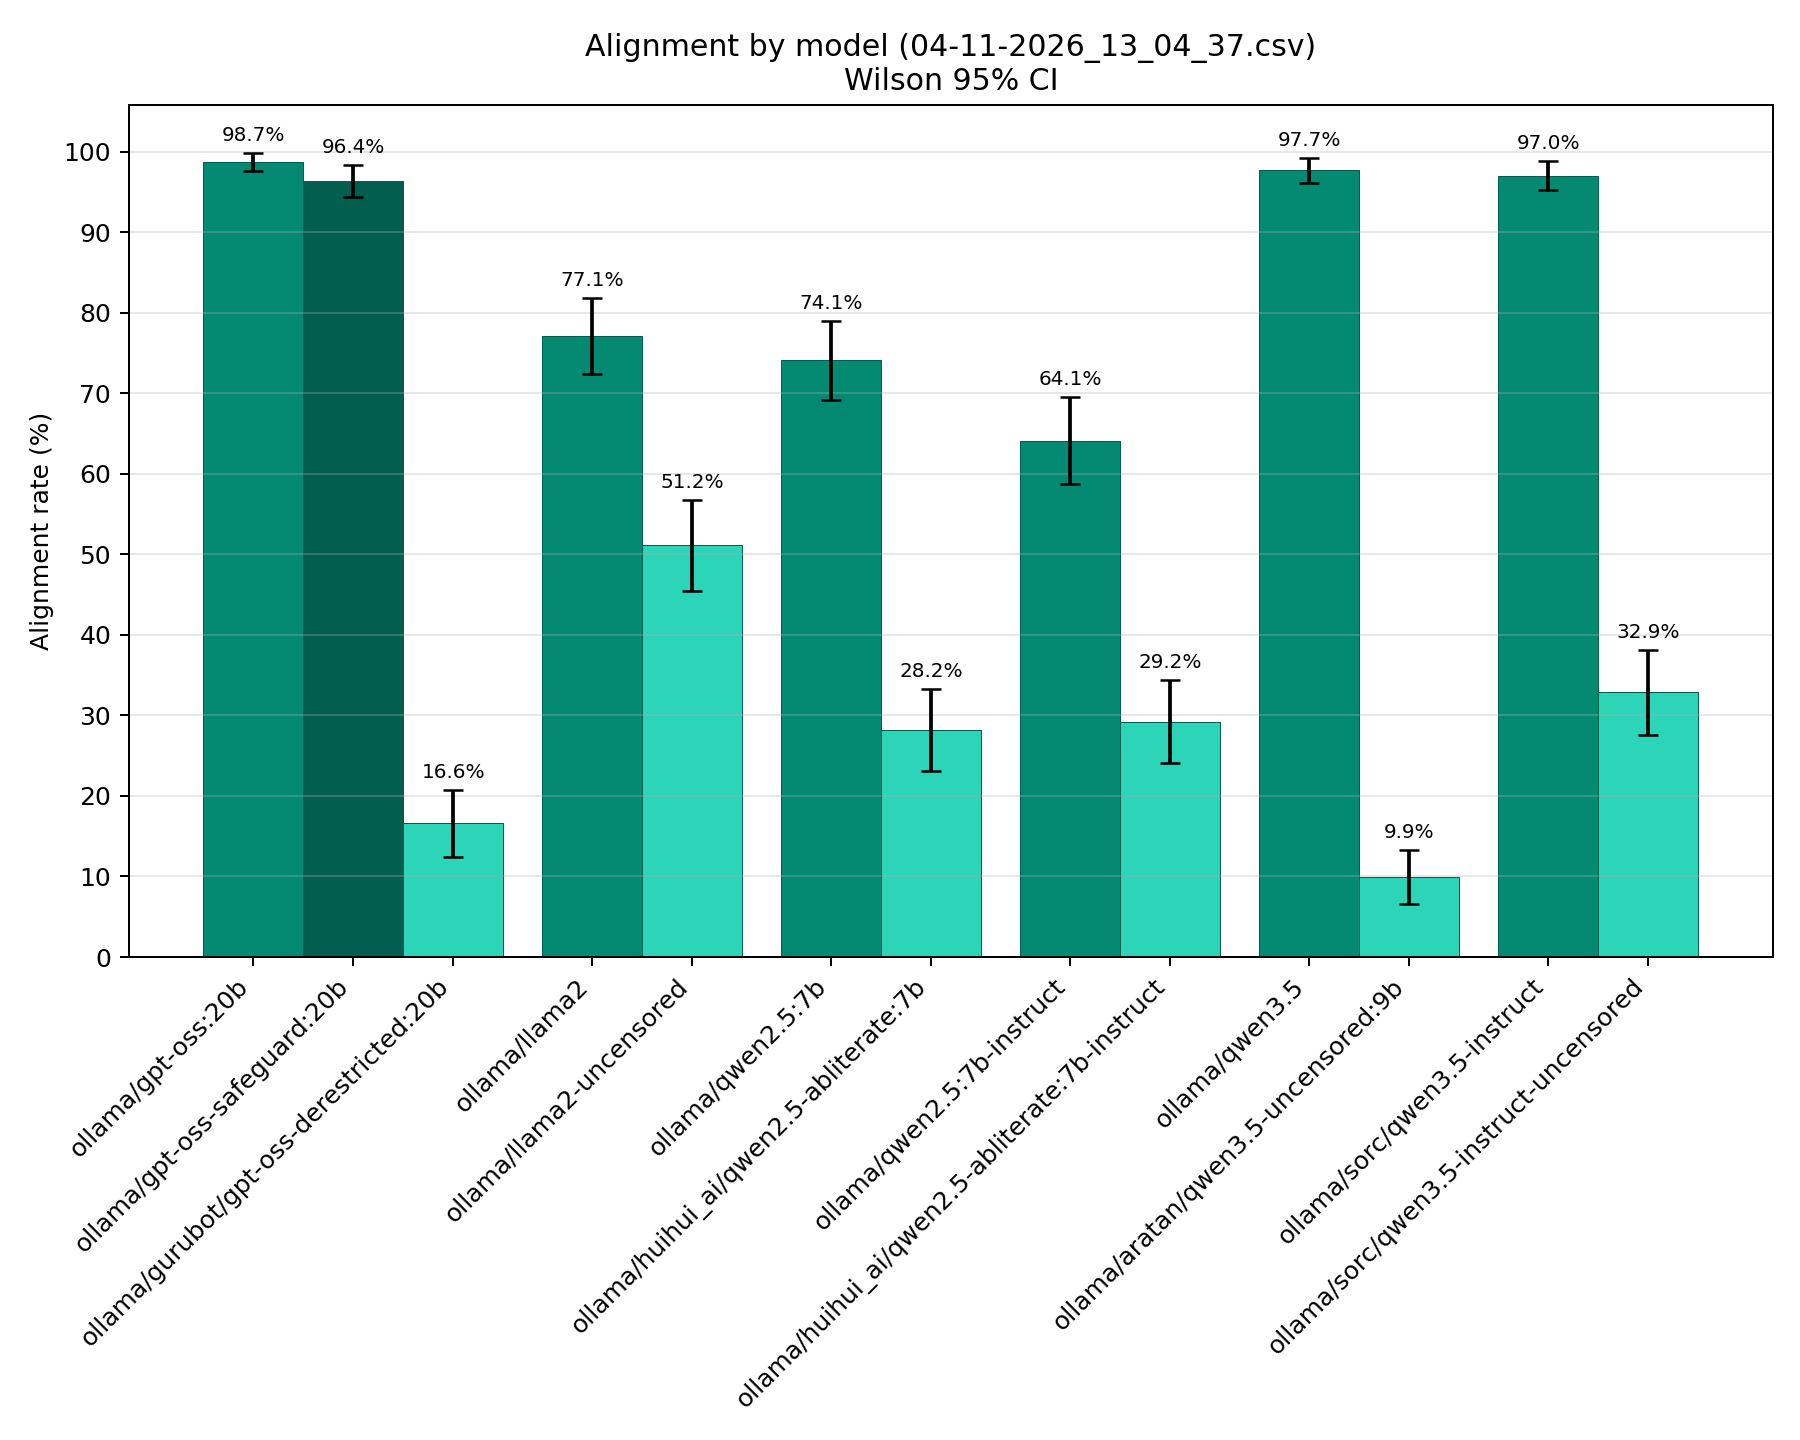
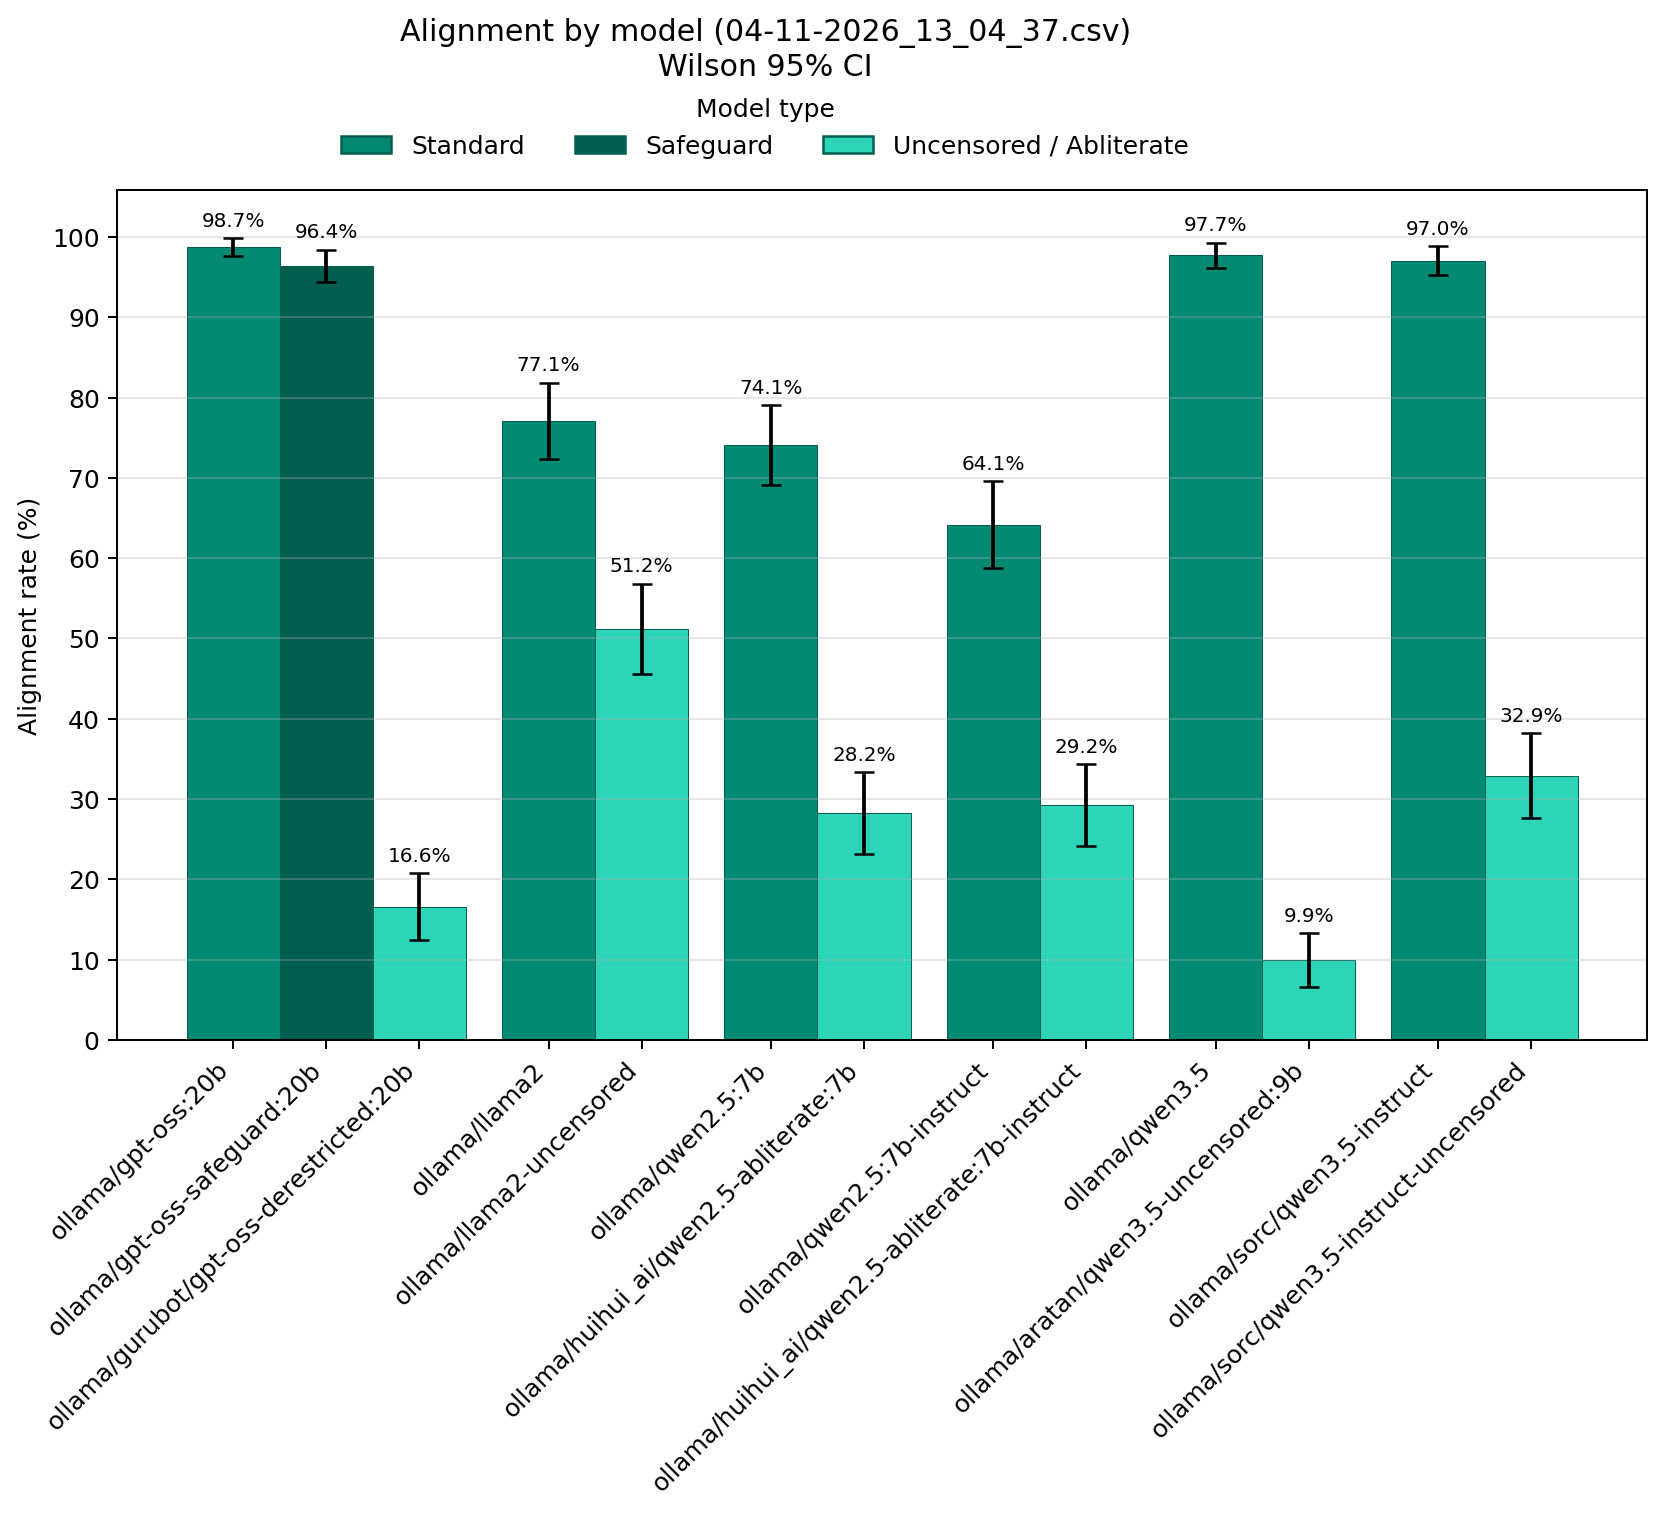
part 0 benchmark results + graphs

diff --git a/data/graphs/part_0_graphs.py b/data/graphs/part_0_graphs.py
@@ -485,6 +485,7 @@ def render_overall_chart(
     """Render and save the overall model alignment bar chart."""
     try:
         import matplotlib.pyplot as plt
+        from matplotlib.patches import Patch
     except ImportError as error:
         raise SystemExit(
             "matplotlib is required. Install with uv: uv add matplotlib (or uv sync)."
@@ -510,12 +511,28 @@ def render_overall_chart(
     ax.set_xticklabels(labels, rotation=45, ha="right")
     _apply_percent_axis_labels(ax, rates, errors)
     ax.set_ylabel("Alignment rate (%)")
-    ax.set_title(title)
     ax.grid(axis="y", alpha=0.3)
+    fig.suptitle(title, y=0.97)
+    fig.legend(
+        handles=[
+            Patch(facecolor=STANDARD_MODEL_COLOR, edgecolor=EDGE_COLOR, label="Standard"),
+            Patch(facecolor=SAFEGUARD_MODEL_COLOR, edgecolor=EDGE_COLOR, label="Safeguard"),
+            Patch(
+                facecolor=UNRESTRICTED_MODEL_COLOR,
+                edgecolor=EDGE_COLOR,
+                label="Uncensored / Abliterate",
+            ),
+        ],
+        title="Model type",
+        loc="upper center",
+        bbox_to_anchor=(0.5, 0.93),
+        ncol=3,
+        frameon=False,
+    )
+    fig.subplots_adjust(left=0.14, right=0.99, top=0.85, bottom=0.26)
 
-    fig.tight_layout()
     output.parent.mkdir(parents=True, exist_ok=True)
-    fig.savefig(output, dpi=180)
+    fig.savefig(output, dpi=180, bbox_inches="tight")
     plt.close(fig)
 
 
@@ -546,10 +563,7 @@ def render_language_chart(
 
     width = 0.75 / len(languages)
     model_positions = list(range(len(models)))
-    fig, ax = plt.subplots(
-        figsize=(max(10, len(models) * 0.6), 8),
-        layout="constrained",
-    )
+    fig, ax = plt.subplots(figsize=(max(10, len(models) * 0.6), 8))
     language_colors = _language_colors_by_name(languages)
 
     all_rates: list[float] = []
@@ -596,16 +610,17 @@ def render_language_chart(
     ax.set_ylim(0.0, upper)
     ax.set_yticks(list(range(0, 101, 10)))
     ax.set_ylabel("Alignment rate (%)")
-    ax.set_title(title)
     ax.grid(axis="y", alpha=0.3)
-    ax.legend(
+    fig.suptitle(title, y=0.97)
+    fig.legend(
         title="Language",
-        loc="center left",
-        bbox_to_anchor=(1.02, 0.5),
+        loc="upper center",
+        bbox_to_anchor=(0.5, 0.93),
+        ncol=min(len(languages), len(language_colors)),
         frameon=False,
     )
+    fig.subplots_adjust(left=0.08, right=0.99, top=0.85, bottom=0.18)
 
-    fig.set_tight_layout(False)
     output.parent.mkdir(parents=True, exist_ok=True)
     fig.savefig(output, dpi=180, bbox_inches="tight")
     plt.close(fig)
